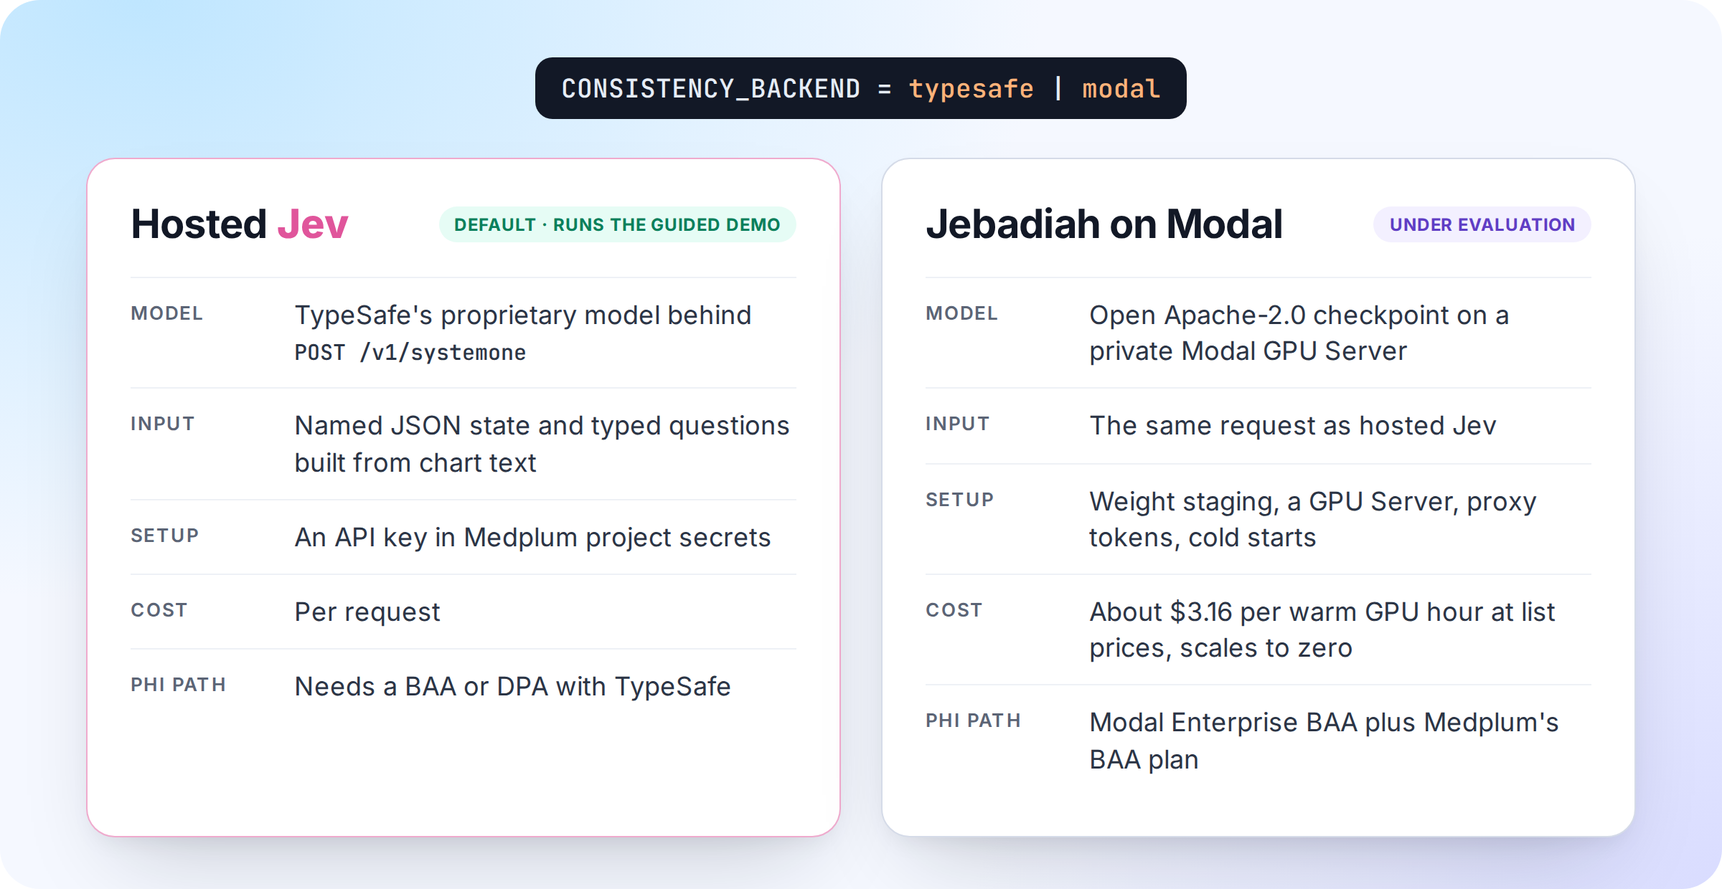
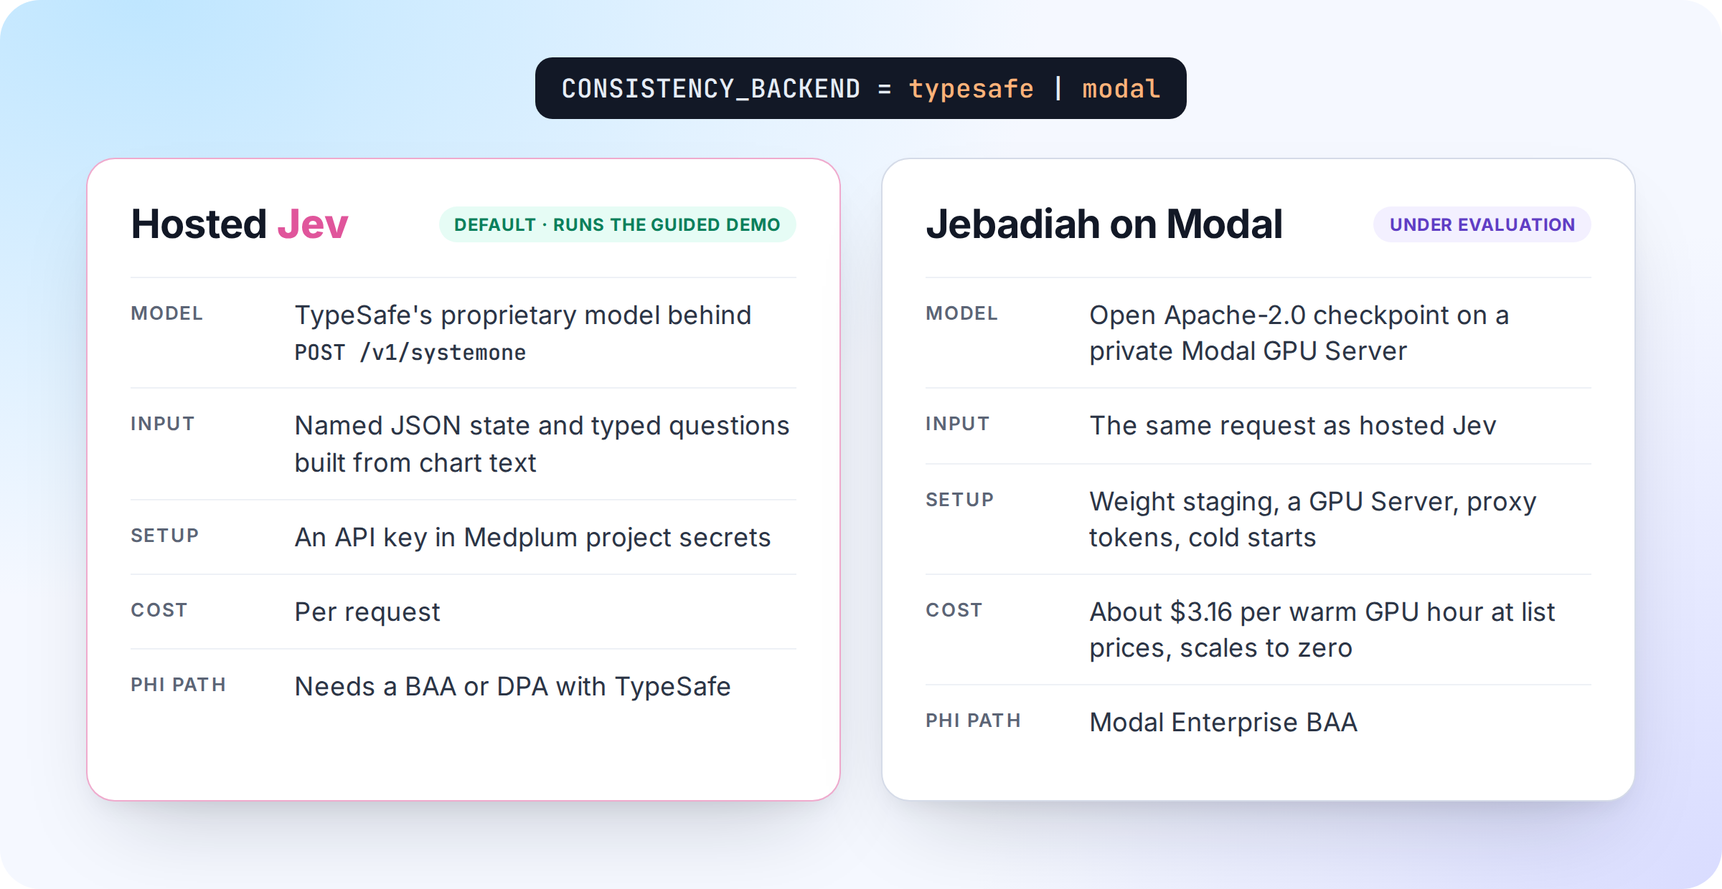
Fix article claims after the manual edit
Checked every claim in ARTICLE.md against the code, the measurement
files, the Decision Index data and the vendors' pages.

- The Bot uses the model's selected answer as is; there is no probability
  threshold, so drop "(up to some limit)".
- The 40 mg note is flagged because it does not acknowledge the discharge
  change, which is what the criteria say, not because no reason was given.
- Simple Jev is an inference project, not a model.
- Surogate Rune's obstacle is its own serving engine and decision API, not
  a gate: the "-GGUF" repo ships bf16 safetensors.
- The README quick start is four steps, not four commands.
- Typos, straight quotes, non-breaking and doubled spaces, the date, and
  the missing final newline.
- Figures: drop Medplum's BAA plan from the backends card and the two
  headlines ("Four notes, three answers", "The provider decides. FHIR
  remembers."); re-render those three images only.

Changed region(s): [[0.0312, 0.8274, 0.9688, 0.95], [0.7812, 0.7968, 0.9062, 0.8274]]

diff --git a/article/figures.html b/article/figures.html
@@ -188,9 +188,8 @@
 </figure>
 
 <!-- 4. The four scenario notes and what the card says for each. -->
-<figure id="side-paths" style="height:640px">
-  <div class="headline" style="position:absolute;left:0;right:0;top:50px">Four notes, three answers</div>
-  <div style="position:absolute;left:70px;right:70px;top:140px;display:flex;flex-direction:column;gap:18px">
+<figure id="side-paths" style="height:550px">
+  <div style="position:absolute;left:70px;right:70px;top:50px;display:flex;flex-direction:column;gap:18px">
     <div class="card" style="display:grid;grid-template-columns:560px 1fr;align-items:center;padding:20px 26px;gap:24px">
       <div style="font-size:20px;line-height:1.4"><span class="eyebrow" style="font-size:13px;display:block;margin-bottom:4px">Plan copied from the chart</span><mark>Plan: continue lisinopril 10 mg daily.</mark></div>
       <div><span class="chip conflict">Potential conflict</span><div style="font-size:17px;color:var(--muted);margin-top:8px">The hospital raised it to 20 mg.</div></div>
@@ -260,13 +259,12 @@
 </figure>
 
 <!-- 6. What each provider choice records in FHIR (adapted from the video's decision scene). -->
-<figure id="fhir-records" style="height:660px">
-  <div class="headline" style="position:absolute;left:0;right:0;top:48px">The provider decides. FHIR remembers.</div>
-  <div class="card" style="position:absolute;left:70px;right:70px;top:130px;padding:22px 28px;display:flex;align-items:center;gap:22px">
+<figure id="fhir-records" style="height:578px">
+  <div class="card" style="position:absolute;left:70px;right:70px;top:48px;padding:22px 28px;display:flex;align-items:center;gap:22px">
     <div class="mono" style="font-size:20px;font-weight:600;color:var(--vinta);flex:none">DetectedIssue</div>
     <div style="font-size:19px;line-height:1.45;color:var(--body)">Every check. Points to the visit, the exact note version and the outside document. Holds labels, probabilities and sentence positions, <b>no copied chart text</b>.</div>
   </div>
-  <div style="position:absolute;left:70px;right:70px;top:282px;display:grid;grid-template-columns:repeat(3,1fr);gap:22px">
+  <div style="position:absolute;left:70px;right:70px;top:200px;display:grid;grid-template-columns:repeat(3,1fr);gap:22px">
     <div class="card" style="padding:26px 26px 28px;height:262px">
       <div style="width:54px;height:54px;border-radius:15px;background:#e8efff;display:flex;align-items:center;justify-content:center"><svg width="28" height="28" viewBox="0 0 24 24" fill="none" stroke="#1753ff" stroke-width="2" stroke-linecap="round" stroke-linejoin="round"><path d="M4 20h4L19 9l-4-4L4 16z"/><path d="M13.5 6.5l4 4"/></svg></div>
       <div style="font-size:23px;font-weight:700;margin:16px 0 10px">Edit the note</div>
@@ -283,7 +281,7 @@
       <div style="font-size:18px;line-height:1.45;color:var(--body)">A reconciliation <span class="mono" style="font-size:16px">Task</span> without <span class="mono" style="font-size:16px">Task.encounter</span>, so Sign &amp; Lock leaves it open.</div>
     </div>
   </div>
-  <div style="position:absolute;left:0;right:0;top:586px;text-align:center;font-size:22px;font-weight:600;color:var(--body)">The model never changes the chart.</div>
+  <div style="position:absolute;left:0;right:0;top:504px;text-align:center;font-size:22px;font-weight:600;color:var(--body)">The model never changes the chart.</div>
 </figure>
 
 <!-- 7. Hosted Jev on nine synthetic inputs. -->
@@ -399,7 +397,7 @@ const BACKENDS = [
     ['Input', 'The same request as hosted Jev'],
     ['Setup', 'Weight staging, a GPU Server, proxy tokens, cold starts'],
     ['Cost', 'About $3.16 per warm GPU hour at list prices, scales to zero'],
-    ['PHI path', 'Modal Enterprise BAA plus Medplum\'s BAA plan'],
+    ['PHI path', 'Modal Enterprise BAA'],
   ] },
 ];
 document.getElementById('backend-cards').innerHTML = BACKENDS.map((b) => `

diff --git a/ARTICLE.md b/ARTICLE.md
@@ -1,14 +1,14 @@
 # A Jev-like AI for healthcare: checking visit notes against discharge summaries in Medplum
 
-*Updated September 30, 2026. This demo uses synthetic data only.*
+*Updated October 1, 2026. This demo uses synthetic data only.*
 
-A patient comes back to primary care one week after a hospital stay for high blood pressure. The hospital raised their lisinopril from 10 mg to 20 mg once daily. The clinic’s chart still says 10 mg, and so does the last visit note. The provider is running late and copies the plan from the chart: “continue lisinopril 10 mg daily”. The visit’s clinical note now conflicts with the discharge summary on the dose, and nobody has noticed.
+A patient comes back to primary care one week after a hospital stay for high blood pressure. The hospital raised their lisinopril from 10 mg to 20 mg once daily. The clinic's chart still says 10 mg, and so does the last visit note. The provider is running late and copies the plan from the chart: "continue lisinopril 10 mg daily". The visit's clinical note now conflicts with the discharge summary on the dose, and nobody has noticed.
 
 ![The chart lists lisinopril 10 MG, the visit note copies "continue lisinopril 10 mg daily", and the outside discharge summary says the dose was increased to 20 mg.](article/images/problem.png)
 
 Every record is right on its own terms. The conflict sits between two documents written by two organizations, and no step in the visit puts them side by side. Found after signing, it turns into staff hours: a call to the patient, a check on which dose the pharmacy filled, an addendum to a signed note. Found before signing, it is a one-line edit.
 
-We built an open-source demo that detects that conflict before signing, inside the Medplum Provider App: [vintasoftware/medplum-provider-jev](https://github.com/vintasoftware/medplum-provider-jev). When the provider finishes the visit, a Medplum Bot asks [Jev](https://typesafe.ai/), TypeSafe’s decision model, whether the note and the latest outside discharge summary agree on each active medication's dose. A review card shows the answer beside both passages. The provider can then correct the note, explain why the plan differs, or ask someone to reconcile the medication. 
+We built an open-source demo that detects that conflict before signing, inside the Medplum Provider App: [vintasoftware/medplum-provider-jev](https://github.com/vintasoftware/medplum-provider-jev). When the provider finishes the visit, a Medplum Bot asks [Jev](https://typesafe.ai/), TypeSafe's decision model, whether the note and the latest outside discharge summary agree on each active medication's dose. A review card shows the answer beside both passages. The provider can then correct the note, explain why the plan differs, or ask someone to reconcile the medication.
 
 ## Following the discrepancy through a visit
 
@@ -18,25 +18,25 @@ In the demo, **Start scenario** creates a new synthetic patient with that histor
 
 The provider reads the discharge summary, writes the visit note and sets the visit to **Finished**. That saves the note and runs the check once. If the plan says "continue lisinopril 10 mg daily", the card reports a potential conflict and highlights the dose in each document.
 
-From there, the provider can edit the plan to acknowledge the hospital's increase to 20 mg, then press **Check note** to review the revised text. They can also sign with a documented reason or create a reconciliation task.  Each choice is stored in the chart as FHIR records.
+From there, the provider can edit the plan to acknowledge the hospital's increase to 20 mg, then press **Check note** to review the revised text. They can also sign with a documented reason or create a reconciliation task. Each choice is stored in the chart as FHIR records.
 
-Below we have more examples of different Jev check results. A note that acknowledges the discharge dose produces agreement. "Continue lisinopril", with no dose, leaves too little information to compare. An unexplained increase to 40 mg produces another potential conflict: the model flags the difference for review because no reason was given.
+Below we have more examples of different Jev check results. A note that acknowledges the discharge dose produces agreement. "Continue lisinopril", with no dose, leaves too little information to compare. An unexplained increase to 40 mg produces another potential conflict: the model flags the difference for review because the note does not acknowledge the discharge change.
 
-![Four notes, three answers: "continue lisinopril 10 mg daily" is a potential conflict; "increased to 20 mg daily at discharge; continue 20 mg" is agreement; "continue lisinopril" is insufficient information; "increase lisinopril to 40 mg daily" is a potential conflict.](article/images/side-paths.png)
+!["continue lisinopril 10 mg daily" is a potential conflict; "increased to 20 mg daily at discharge; continue 20 mg" is agreement; "continue lisinopril" is insufficient information; "increase lisinopril to 40 mg daily" is a potential conflict.](article/images/side-paths.png)
 
 ## Why Jev? Turning the comparison into a typed answer
 
 If both documents stored the dose in a separate field, the app could compare the values directly. Here, the dose is part of a sentence. The check has to distinguish an old prescription from a new plan and recognize when the provider has acknowledged a change.
 
-Jev, TypeSafe's proprietary System One decision model, is able to read those sentences. We send it the documents as named JSON state, along with a question and the allowed answers. For a Choice question, Jev picks one of those answers and returns a probability for each option. Deterministic Medplum code can use the highest probability value directly (up to some limit), without having to interpret a written explanation.
+Jev, TypeSafe's proprietary System One decision model, is able to read those sentences. We send it the documents as named JSON state, along with a question and the allowed answers. For a Choice question, Jev picks one of those answers and returns a probability for each option. Deterministic Medplum code can use the selected answer directly, without having to interpret a written explanation.
 
 ![Jev reads the note and the discharge summary, answers "Do the note and the discharge summary agree on the lisinopril dose?" with Agreement 0.00, Potential conflict 1.00 and Insufficient information 0.00, and returns dose_0 = "potential_conflict".](article/images/typed-answer.png)
 
-For this check, the choices are `agreement`, `potential_conflict` and `insufficient_information`. We also tell the model what each answer means. Different doses count as a potential conflict when the later note does not acknowledge a change. A note that explicitly acknowledges the change can count as agreement. These definitions travel with the question in every request. Request to Jev is made via a deterministic Medplum Bot. Alternatively, open-weight models like Jebadiah could be used instead of Jev on [Modal.com](https://modal.com/) if you host them there:
+For this check, the choices are `agreement`, `potential_conflict` and `insufficient_information`. We also tell the model what each answer means. Different doses count as a potential conflict when the later note does not acknowledge a change. A note that explicitly acknowledges the change can count as agreement. These definitions travel with the question in every request. Request to Jev is made via a deterministic Medplum Bot. Alternatively, open-weight models like Jebadiah could be used instead of Jev on [Modal.com](https://modal.com/) if you host them there:
 
 ![Architecture: (1) the Provider App triggers the check; (2) a Medplum Bot running as the signed-in user reads the note, active medications and discharge summary and writes nothing; (3) hosted Jev, or Jebadiah on Modal, answers typed questions; (4) the review card shows the result; (5) FHIR records are written as the provider.](article/images/architecture.png)
 
-That request asks three kinds of questions to the Decision Model (Jev / Jebadiah.). One Choice per medication supplies the dose label. A Yes/No question asks whether the note mentions the hospital stay, which affects the card's wording. Further Choice questions select from numbered sentences in each document, giving the card its highlights. The card also exposes the label probabilities so the provider can inspect the model's answer alongside the source text:
+That request asks the decision model, Jev or Jebadiah, three kinds of questions. One Choice per medication supplies the dose label. A Yes/No question asks whether the note mentions the hospital stay, which affects the card's wording. Further Choice questions select from numbered sentences in each document, giving the card its highlights. The card also exposes the label probabilities so the provider can inspect the model's answer alongside the source text:
 
 ![The review card for a potential conflict, annotated: (1) the label comes from one Choice question per medication; (2) the wording comes from a yes/no question on whether the note mentions the hospital stay; (3) the highlights come from one Choice per document over its numbered sentences; (4) the scores are Jev's distribution over the three labels; (5) the decision is always the provider's.](article/images/review-card.png)
 
@@ -66,7 +66,7 @@ Here is an abbreviated request. The Bot, app and measurement script all read the
 }
 ```
 
-The Bot's TypeSafe key stays in a Medplum [project secret](https://www.medplum.com/docs/bots/bot-secrets). Learn more on how to use Jev by reading the [TypeSafe's documentation](https://docs.typesafe.ai/).
+The Bot's TypeSafe key stays in a Medplum [project secret](https://www.medplum.com/docs/bots/bot-secrets). Learn more on how to use Jev by reading [TypeSafe's documentation](https://docs.typesafe.ai/).
 
 ## Keeping the check with the provider's decision
 
@@ -90,7 +90,7 @@ The highlights showed how much a small wording change can matter. Our first ques
 
 ![Correct highlights out of 18 per wording: "the current dose" 17, "going forward, including a new or changed dose" 16, "the dose as the plan, whether continued, new or changed" 18 (used by the Bot), "a dose" 18.](article/images/highlight-wording.png)
 
-The Bot now asks for the dose "as the plan, whether continued, new or changed". That wording selected all 18 expected sentences and is intended to favor the plan over a sentence mentioning an old dose.  
+The Bot now asks for the dose "as the plan, whether continued, new or changed". That wording selected all 18 expected sentences and is intended to favor the plan over a sentence mentioning an old dose.
 
 ## Evaluating an open model
 
@@ -106,30 +106,30 @@ To explore running an open-weights model in our own [Modal](https://modal.com/) 
 
 The self-hosted labels include one answer rule. Jebadiah 27B, AutoJev and Decider each labeled the note with no dose `agreement` while their own highlight question found no dose sentence, so the Bot reports that case as insufficient information. Hosted Jev gets it right without the rule, which changes none of its answers.
 
-The top performing one was Jebadiah 27B. It matched hosted Jev's count, and its calibration error is the lowest among the top entries, which matters because the card shows the probabilities. AutoJev-27B ranks higher on the index and on clinical-trial statements (NLI4CT), but on our cases it mislabeled both dated dose changes, one of them at 0.99. The index's top entry, Surogate Rune, is gated and has a calibration error of 0.12. Jebadiah's remaining miss is a dated change with no explanation, which it flagged as a conflict (0.94) where the reference expects insufficient information.
+The top performing one was Jebadiah 27B. It matched hosted Jev's count, and its calibration error is the lowest among the top entries, which matters because the card shows the probabilities. AutoJev-27B ranks higher on the index and on clinical-trial statements (NLI4CT), but on our cases it mislabeled both dated dose changes, one of them at 0.99. The index's top entry, Surogate Rune, answers through its own serving engine and decision API rather than the `/v1/systemone` request the Bot sends, and has a calibration error of 0.12, therefore it wasn't tested. Jebadiah's remaining miss is a dated change with no explanation, which it flagged as a conflict (0.94) where the reference expects insufficient information.
 
-Jebadiah fine-tunes Qwen3.8-27B and reads each question's option logits in one forward pass, with a temperature fitted per question type. Its 56 GB of BF16 weights fit one A100 80 GB, about $3.16 per warm hour at list prices, scaling to zero between uses. Warm checks take 0.5–0.7 s; a cold start, including a kernel warm-up, usually takes three to four minutes, and once took 18 when the weights loaded slowly. It runs behind its authors' own server, pinned to a reviewed commit. More details at [Model card](https://huggingface.co/frontier-infra/jebadiah-27b), [server code](https://github.com/getainode/jebadiah), and our [SELF-HOSTING.md](SELF-HOSTING.md) documentation.
+Jebadiah fine-tunes Qwen3.8-27B and reads each question's option logits in one forward pass, with a temperature fitted per question type. Its 56 GB of BF16 weights fit one A100 80 GB, about $3.16 per warm hour at list prices, scaling to zero between uses. Warm checks take 0.5–0.7 s; a cold start, including a kernel warm-up, usually takes three to four minutes, and once took 18 when the weights loaded slowly. It runs behind its authors' own server, pinned to a reviewed commit. More details at [Model card](https://huggingface.co/frontier-infra/jebadiah-27b), [server code](https://github.com/getainode/jebadiah), and our [SELF-HOSTING.md](SELF-HOSTING.md) documentation.
 
-![One project secret, CONSISTENCY_BACKEND, switches between hosted Jev (the default, which runs the guided demo: an API key, per-request cost, PHI needs a BAA or DPA with TypeSafe) and Jebadiah on Modal (the same request, an open checkpoint on a private GPU Server, about $3.16 per warm GPU hour and scaling to zero, PHI under Modal's Enterprise BAA plus Medplum's BAA plan).](article/images/backends.png)
+![One project secret, CONSISTENCY_BACKEND, switches between hosted Jev (the default, which runs the guided demo: an API key, per-request cost, PHI needs a BAA or DPA with TypeSafe) and Jebadiah on Modal (the same request, an open checkpoint on a private GPU Server, about $3.16 per warm GPU hour and scaling to zero, PHI under Modal's Enterprise BAA).](article/images/backends.png)
 
 Nine authored cases cannot tell these models apart with confidence, and the benchmark index does not answer which one is best for this check either. ContractNLI measures legal document entailment; NLI4CT measures clinical-trial statements. Neither measures medication reconciliation, and the entries use different hardware. Our cases point to dated dose changes as a weak spot, which is another reason to keep both passages visible to the provider. The [index data](https://huggingface.co/spaces/multimodalart/jev-decision-index/blob/main/data/index.json) and [methodology](https://huggingface.co/spaces/multimodalart/jev-decision-index/blob/main/data/methodology.json) provide more context for those open models.
 
 [DoccyHealth's Solomon](https://huggingface.co/DoccyHealth/Solomon) deserves a closer comparison because it was built for document-grounded healthcare questions. It uses trained answer heads and an adapter, with reusable document states and optional evidence pointers. Adopting it would require its own runtime and state-cache hosting. Its published validation covers 802 questions over 54 real documents, with AI-generated labels that were not human-verified, so it too needs a task-specific evaluation with clinicians.
 
-A separate group of models explores decision-oriented inference with existing weights, without training a new checkpoint. [Simple Jev](https://github.com/featherless-ai/simple-jev) takes this approach.
+A separate group of projects explores decision-oriented inference with existing weights, without training a new checkpoint. [Simple Jev](https://github.com/featherless-ai/simple-jev) takes this approach.
 
 ## What would have to change for real patient data?
 
-The current project contains only synthetic records. Moving to patient documents would require a separate access-controlled project, BAA coverage for every service that sees the text, and tested retention, deletion and incident handling. We have no evidence TypeSafe signs BAAs for healthcare comapnies using Jev.
+The current project contains only synthetic records. Moving to patient documents would require a separate access-controlled project, BAA coverage for every service that sees the text, and tested retention, deletion and incident handling. We have no evidence TypeSafe signs BAAs for healthcare companies using Jev.
 
-Those requirements influenced the self-hosted deployment. Modal documents Enterprise BAAs and HIPAA support, with Volumes v2 covered but Volumes v1, user code, memory snapshots and most images excluded. Modal Servers proxy payloads without storing them, whereas Functions can keep inputs and outputs for up to seven days. Our demo endpoint therefore uses a Server with snapshots off and weights on a v2 Volume to simulate a HIPAA-compatible configuration. Learn more about [Modal security](https://modal.com/docs/guide/security).
+Those requirements influenced the self-hosted deployment. Modal documents Enterprise BAAs and HIPAA support, with Volumes v2 covered but Volumes v1, user code, memory snapshots and most images excluded. Modal Servers proxy payloads without storing them, whereas Functions can keep inputs and outputs for up to seven days. Our demo endpoint therefore uses a Server with snapshots off and weights on a v2 Volume to simulate a HIPAA-compatible configuration. Learn more about [Modal security](https://modal.com/docs/guide/security).
 
 ## Taking the demo further
 
 The immediate next step for Jebadiah is a larger evaluation on the same workflow as hosted Jev, with clinician-reviewed labels. The first runs already show where to look: missing doses and dated changes. [SELF-HOSTING.md](SELF-HOSTING.md#5-run-the-guided-demo-on-it) shows how to switch the demo to it.
 
-The workflow could also support a different check: whether a signed note and its addenda support the diagnoses submitted on a claim. Before **Submit Claim** in Details & Billing, a Bot could ask one Choice per diagnosis the provider added: `supported`, `not_supported` or `insufficient_documentation`. The provider would resolve each result with an addendum or by removing the diagnosis; the model would never propose or change a code. 
+The workflow could also support a different check: whether a signed note and its addenda support the diagnoses submitted on a claim. Before **Submit Claim** in Details & Billing, a Bot could ask one Choice per diagnosis the provider added: `supported`, `not_supported` or `insufficient_documentation`. The provider would resolve each result with an addendum or by removing the diagnosis; the model would never propose or change a code.
 
 As with the dose check, the provider would see the relevant passages before completing the work, and their decision would stay in the chart with the check.
 
-To try the working dose check, start with the [README](README.md). It takes a Medplum project with Bots enabled, a TypeSafe API key and four commands.
+To try the working dose check, start with the [README](README.md). It takes a Medplum project with Bots enabled, a TypeSafe API key and four steps.
